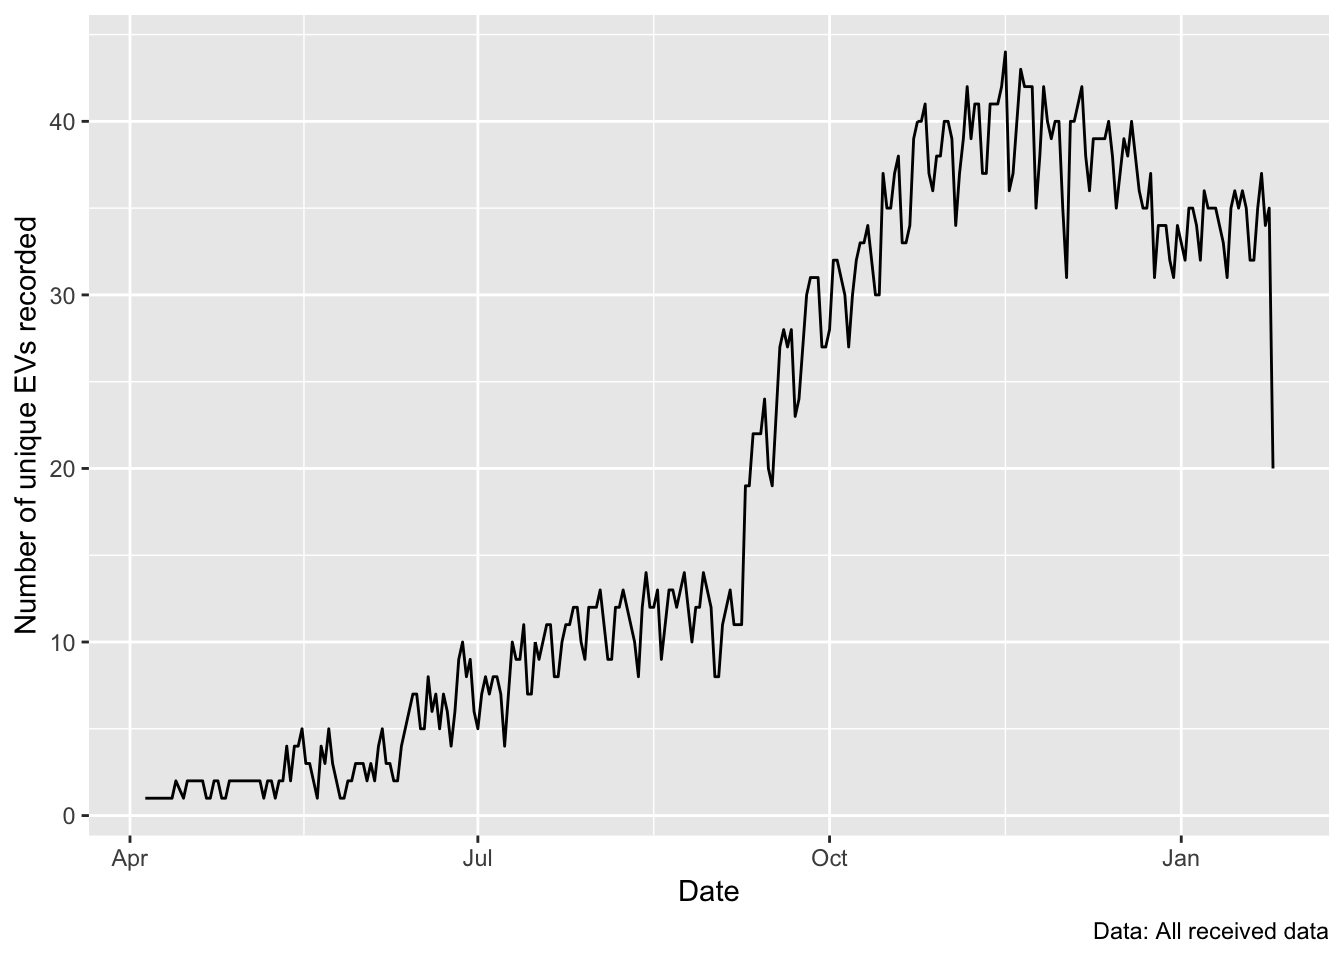
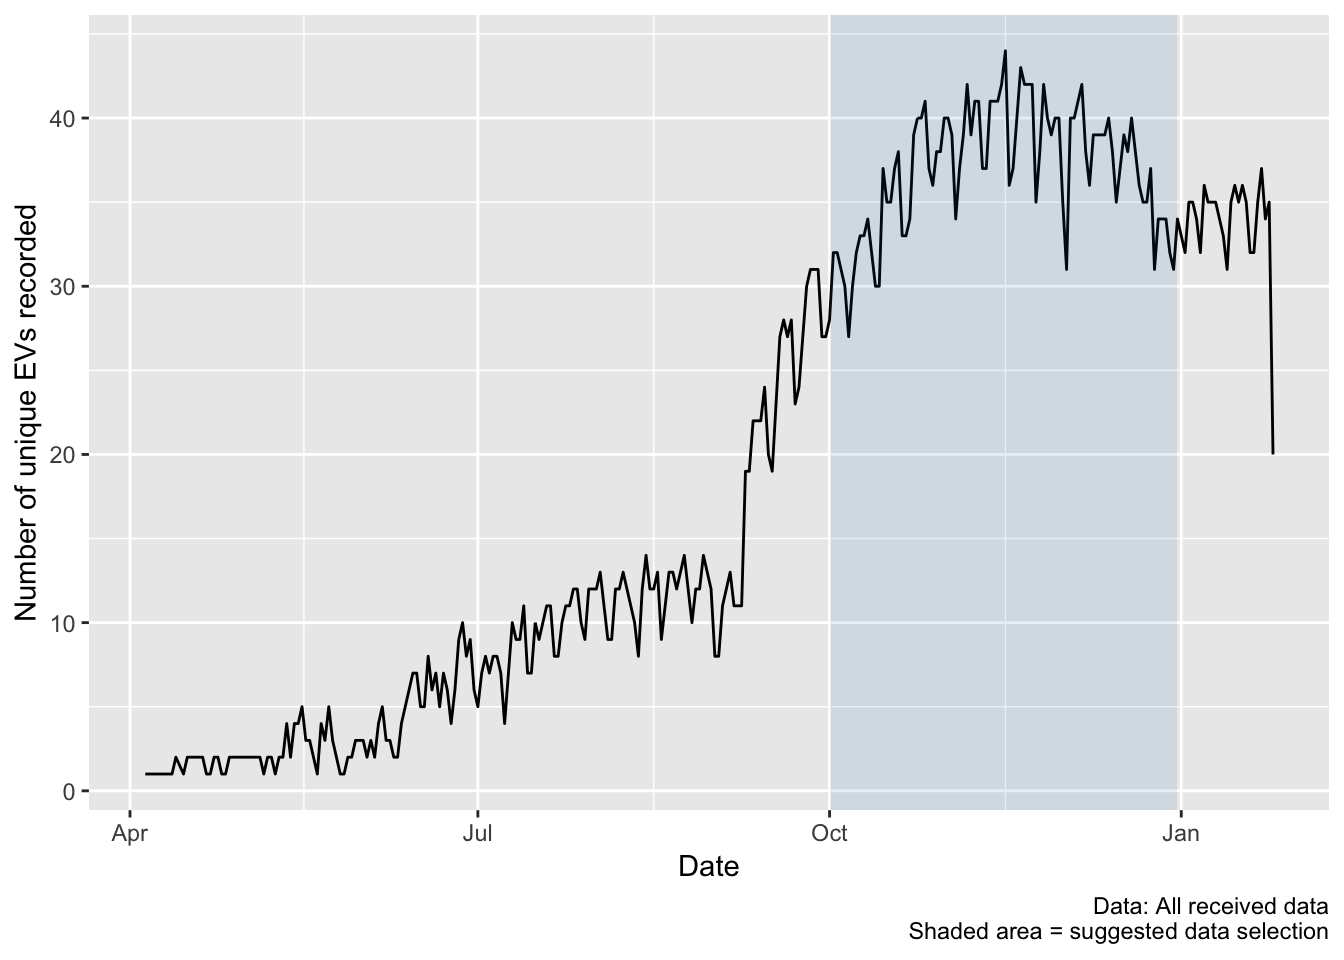
added suggested selection shaded region to data test plot

diff --git a/reports/fullReport/EVBB_report_v1.html b/reports/fullReport/EVBB_report_v1.html
@@ -303,7 +303,7 @@ div.tocify {
 <h1 class="title toc-ignore">Analysis of electric vehicle usage patterns in New Zealand</h1>
 <h3 class="subtitle"><em>Statistical Report</em></h3>
 <h4 class="author"><em>Rafferty Parker and Ben Anderson (<a href="mailto:ben.anderson@otago.ac.nz">ben.anderson@otago.ac.nz</a>), <a href="https://www.otago.ac.nz/centre-sustainability/">Centre for Sustainability</a>, University of Otago</em></h4>
-<h4 class="date"><em>Last run at: 2019-04-17 16:50:25</em></h4>
+<h4 class="date"><em>Last run at: 2019-04-17 17:04:44</em></h4>
 
 </div>
 
@@ -2023,23 +2023,23 @@ Figure 3.12: Mean state of charge at beginning of charge sequence by time of day
 ##  n obs: 1515812 
 ##  n variables: 8 
 ## 
-## ── Variable type:character ──────────────────────────────────────────────────────────────────────────────────────────────────────────────
+## ── Variable type:character ────────────────────────────────────────────────────────────────────────────────────────────────────
 ##     variable missing complete       n min max empty n_unique
 ##  day_of_week       0  1515812 1515812   6   9     0        7
 ##           id       0  1515812 1515812  32  32     0       50
 ##        month       0  1515812 1515812   3   3     0       10
 ## 
-## ── Variable type:Date ───────────────────────────────────────────────────────────────────────────────────────────────────────────────────
+## ── Variable type:Date ─────────────────────────────────────────────────────────────────────────────────────────────────────────
 ##  variable missing complete       n        min        max     median
 ##      date       0  1515812 1515812 2018-04-05 2019-01-25 2018-11-09
 ##  n_unique
 ##       293
 ## 
-## ── Variable type:difftime ───────────────────────────────────────────────────────────────────────────────────────────────────────────────
+## ── Variable type:difftime ─────────────────────────────────────────────────────────────────────────────────────────────────────
 ##  variable missing complete       n    min        max     median n_unique
 ##      time       0  1515812 1515812 0 secs 86399 secs 44827 secs    86400
 ## 
-## ── Variable type:numeric ────────────────────────────────────────────────────────────────────────────────────────────────────────────────
+## ── Variable type:numeric ──────────────────────────────────────────────────────────────────────────────────────────────────────
 ##                 variable missing complete       n    mean      sd     p0
 ##          charge_power_kw       0  1515812 1515812    1.73   71         0
 ##              odometer_km 1000156   515656 1515812 7290.5  7954.38 -62920
@@ -2057,7 +2057,7 @@ Figure 3.12: Mean state of charge at beginning of charge sequence by time of day
 ##  n obs: 851473 
 ##  n variables: 17 
 ## 
-## ── Variable type:character ──────────────────────────────────────────────────────────────────────────────────────────────────────────────
+## ── Variable type:character ────────────────────────────────────────────────────────────────────────────────────────────────────
 ##    variable missing complete      n min max empty n_unique
 ##  chargeFlag       3   851470 851473  17  25     0        5
 ##  chargeType       0   851473 851473  12  17     0        3
@@ -2066,13 +2066,13 @@ Figure 3.12: Mean state of charge at beginning of charge sequence by time of day
 ##  peakPeriod       0   851473 851473   8  12     0        3
 ##    weekdays       0   851473 851473   8   8     0        2
 ## 
-## ── Variable type:Date ───────────────────────────────────────────────────────────────────────────────────────────────────────────────────
+## ── Variable type:Date ─────────────────────────────────────────────────────────────────────────────────────────────────────────
 ##  variable missing complete      n        min        max     median
 ##      date       0   851473 851473 2018-10-01 2018-12-31 2018-11-16
 ##  n_unique
 ##        92
 ## 
-## ── Variable type:difftime ───────────────────────────────────────────────────────────────────────────────────────────────────────────────
+## ── Variable type:difftime ─────────────────────────────────────────────────────────────────────────────────────────────────────
 ##      variable missing complete      n    min          max   median
 ##  dateTimeDiff      12   851461 851473 0 secs 2489602 secs  50 secs
 ##         qHour       0   851473 851473 0 secs   85500 secs 11:45:00
@@ -2084,7 +2084,7 @@ Figure 3.12: Mean state of charge at beginning of charge sequence by time of day
 ##     86380
 ##     86380
 ## 
-## ── Variable type:factor ─────────────────────────────────────────────────────────────────────────────────────────────────────────────────
+## ── Variable type:factor ───────────────────────────────────────────────────────────────────────────────────────────────────────
 ##     variable missing complete      n n_unique
 ##  day_of_week       0   851473 851473        7
 ##        month       0   851473 851473        3
@@ -2092,7 +2092,7 @@ Figure 3.12: Mean state of charge at beginning of charge sequence by time of day
 ##  Fri: 136333, Thu: 132137, Wed: 130721, Mon: 127828    TRUE
 ##       Nov: 298332, Oct: 280869, Dec: 272272, Jan: 0   FALSE
 ## 
-## ── Variable type:numeric ────────────────────────────────────────────────────────────────────────────────────────────────────────────────
+## ── Variable type:numeric ──────────────────────────────────────────────────────────────────────────────────────────────────────
 ##         variable missing complete      n    mean      sd     p0     p25
 ##  charge_power_kw       0   851473 851473    1.58    2.82      0    0   
 ##      odometer_km  590546   260927 851473 6699.62 8356.62 -62920 1709   
@@ -2102,7 +2102,7 @@ Figure 3.12: Mean state of charge at beginning of charge sequence by time of day
 ##  4007    7825    69163    ▁▁▁▇▇▂▁▁
 ##    69.52   81.99    98.1  ▁▁▂▃▆▇▇▆
 ## 
-## ── Variable type:POSIXct ────────────────────────────────────────────────────────────────────────────────────────────────────────────────
+## ── Variable type:POSIXct ──────────────────────────────────────────────────────────────────────────────────────────────────────
 ##  variable missing complete      n        min        max     median
 ##  dateTime       0   851473 851473 2018-10-01 2018-12-31 2018-11-16
 ##  n_unique
@@ -2113,7 +2113,7 @@ Figure 3.12: Mean state of charge at beginning of charge sequence by time of day
 ##  n obs: 2234 
 ##  n variables: 22 
 ## 
-## ── Variable type:character ──────────────────────────────────────────────────────────────────────────────────────────────────────────────
+## ── Variable type:character ────────────────────────────────────────────────────────────────────────────────────────────────────
 ##         variable missing complete    n min max empty n_unique
 ##       chargeFlag       0     2234 2234  25  25     0        1
 ##       chargeType       0     2234 2234  13  17     0        2
@@ -2124,11 +2124,11 @@ Figure 3.12: Mean state of charge at beginning of charge sequence by time of day
 ##       peakPeriod       0     2234 2234   8  12     0        3
 ##         weekdays       0     2234 2234   8   8     0        2
 ## 
-## ── Variable type:Date ───────────────────────────────────────────────────────────────────────────────────────────────────────────────────
+## ── Variable type:Date ─────────────────────────────────────────────────────────────────────────────────────────────────────────
 ##  variable missing complete    n        min        max     median n_unique
 ##      date       0     2234 2234 2018-10-01 2018-12-31 2018-11-15       92
 ## 
-## ── Variable type:difftime ───────────────────────────────────────────────────────────────────────────────────────────────────────────────
+## ── Variable type:difftime ─────────────────────────────────────────────────────────────────────────────────────────────────────
 ##      variable missing complete    n                   min
 ##  dateTimeDiff       0     2234 2234  0 secs              
 ##       endTime       0     2234 2234  1 secs              
@@ -2144,7 +2144,7 @@ Figure 3.12: Mean state of charge at beginning of charge sequence by time of day
 ##   86392 secs             37122.5 secs        2163
 ##   86246 secs        56717 secs               2163
 ## 
-## ── Variable type:factor ─────────────────────────────────────────────────────────────────────────────────────────────────────────────────
+## ── Variable type:factor ───────────────────────────────────────────────────────────────────────────────────────────────────────
 ##             variable missing complete    n n_unique
 ##  chargeTypeCorrected       0     2234 2234        2
 ##          day_of_week       0     2234 2234        7
@@ -2154,7 +2154,7 @@ Figure 3.12: Mean state of charge at beginning of charge sequence by time of day
 ##  Fri: 360, Mon: 346, Thu: 346, Wed: 323    TRUE
 ##    Nov: 791, Oct: 743, Dec: 700, Jan: 0   FALSE
 ## 
-## ── Variable type:numeric ────────────────────────────────────────────────────────────────────────────────────────────────────────────────
+## ── Variable type:numeric ──────────────────────────────────────────────────────────────────────────────────────────────────────
 ##         variable missing complete    n    mean      sd        p0     p25
 ##  charge_power_kw       0     2234 2234    6.64   12.03      0.5     1.57
 ##      odometer_km    1742      492 2234 5729.76 7499.14 -52352    1448   
@@ -2164,7 +2164,7 @@ Figure 3.12: Mean state of charge at beginning of charge sequence by time of day
 ##  3679.5  7393.5  38453    ▁▁▁▁▇▅▁▁
 ##    47.55   58.94    98.1  ▁▃▆▇▇▃▁▂
 ## 
-## ── Variable type:POSIXct ────────────────────────────────────────────────────────────────────────────────────────────────────────────────
+## ── Variable type:POSIXct ──────────────────────────────────────────────────────────────────────────────────────────────────────
 ##  variable missing complete    n        min        max     median n_unique
 ##  dateTime       0     2234 2234 2018-10-01 2018-12-31 2018-11-15     2234</code></pre>
 </div>
